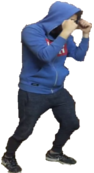
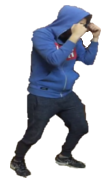
FONTEE PARADO ATR!

diff --git a/main.py b/main.py
@@ -124,16 +124,16 @@ def main():
     reloj1 = pygame.time.Clock()
 
     #imagenes chabon parado
-    imagenParado1 = pygame.image.load("imagenes/zub_zero/parado/parado1.png").convert_alpha()
-    imagenParado2 = pygame.image.load("imagenes/zub_zero/parado/parado2.png").convert_alpha()
-    imagenParado3 = pygame.image.load("imagenes/zub_zero/parado/parado3.png").convert_alpha()
-    imagenParado4 = pygame.image.load("imagenes/zub_zero/parado/parado4.png").convert_alpha()
-    imagenParado5 = pygame.image.load("imagenes/zub_zero/parado/parado5.png").convert_alpha()
-    imagenParado6 = pygame.image.load("imagenes/zub_zero/parado/parado6.png").convert_alpha()
-    imagenParado7 = pygame.image.load("imagenes/zub_zero/parado/parado7.png").convert_alpha()
-    imagenParado8 = pygame.image.load("imagenes/zub_zero/parado/parado8.png").convert_alpha()
-    imagenParado9 = pygame.image.load("imagenes/zub_zero/parado/parado9.png").convert_alpha()
-    imagenParado10 = pygame.image.load("imagenes/zub_zero/parado/parado10.png").convert_alpha()
+    imagenParado1 = pygame.image.load("imagenes/fonte/parado/mov1s.png").convert_alpha()
+    imagenParado2 = pygame.image.load("imagenes/fonte/parado/mov2s.png").convert_alpha()
+    imagenParado3 = pygame.image.load("imagenes/fonte/parado/mov3s.png").convert_alpha()
+    imagenParado4 = pygame.image.load("imagenes/fonte/parado/mov4s.png").convert_alpha()
+    imagenParado5 = pygame.image.load("imagenes/fonte/parado/mov5s.png").convert_alpha()
+    imagenParado6 = pygame.image.load("imagenes/fonte/parado/mov6s.png").convert_alpha()
+    imagenParado7 = pygame.image.load("imagenes/fonte/parado/mov7s.png").convert_alpha()
+    imagenParado8 = pygame.image.load("imagenes/fonte/parado/mov8s.png").convert_alpha()
+    imagenParado9 = pygame.image.load("imagenes/fonte/parado/mov9s.png").convert_alpha()
+    imagenParado10 = pygame.image.load("imagenes/fonte/parado/mov10s.png").convert_alpha()
     imagenParadoArray =[imagenParado1,imagenParado2,imagenParado3,imagenParado4,imagenParado5,imagenParado6,imagenParado7,imagenParado8,imagenParado9,imagenParado10]
 
     #imagenes chabon movimietno
@@ -237,7 +237,7 @@ def main():
                     e_apretada=False
                     defenseMove=False
 
-        reloj1.tick(16)
+        reloj1.tick(12)
         #auxiliar de la animacion
         #t += 1
         #if t > 1:
